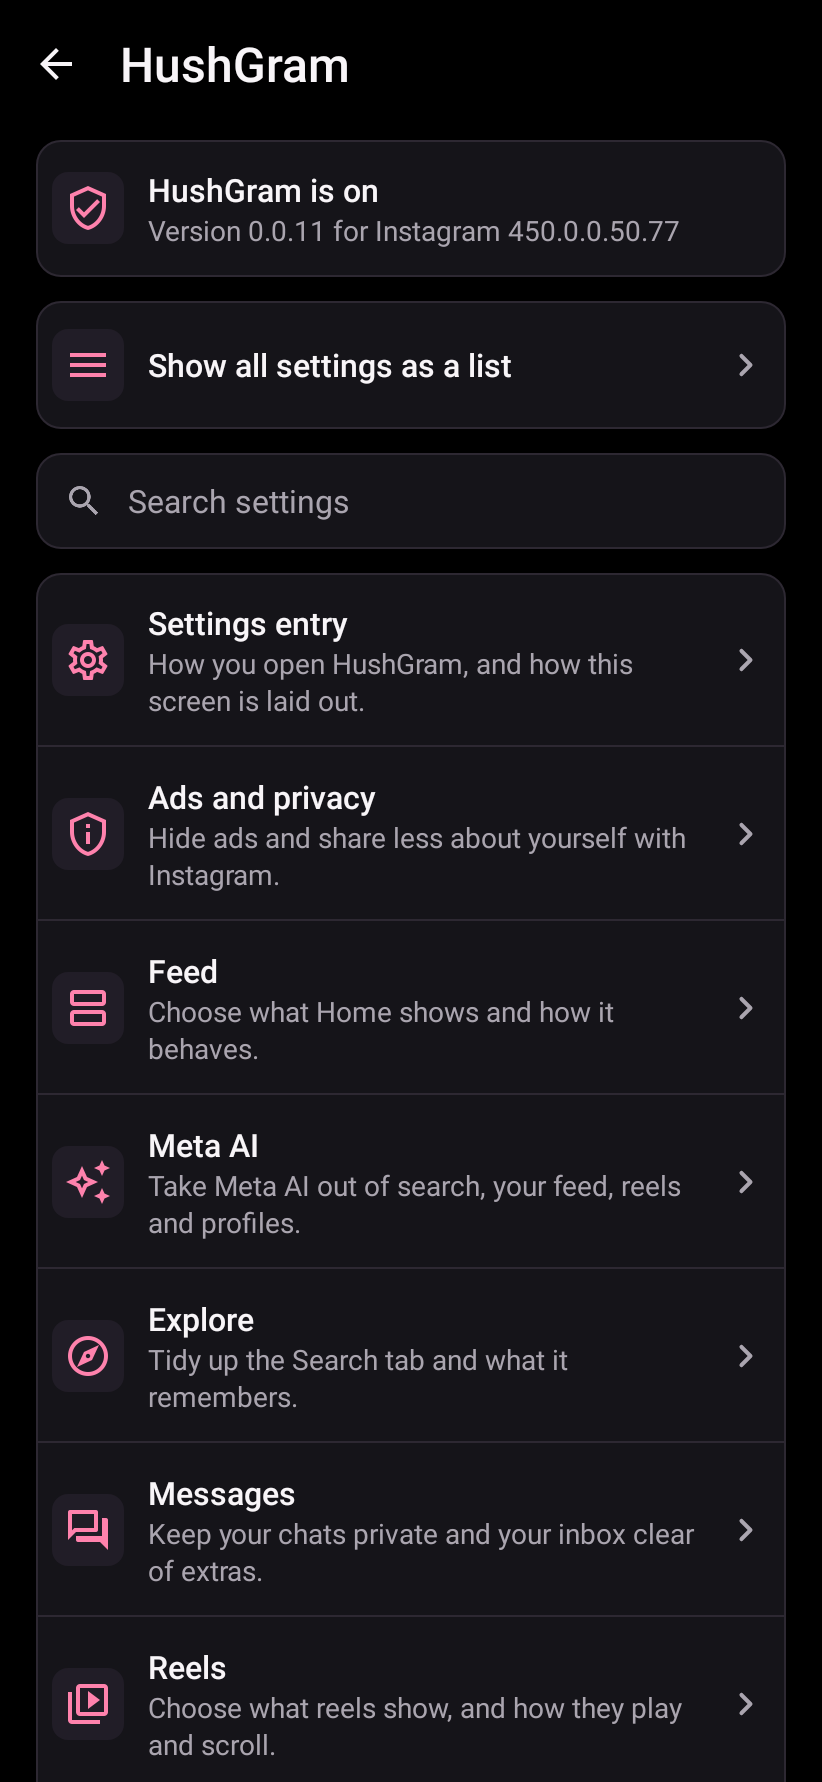
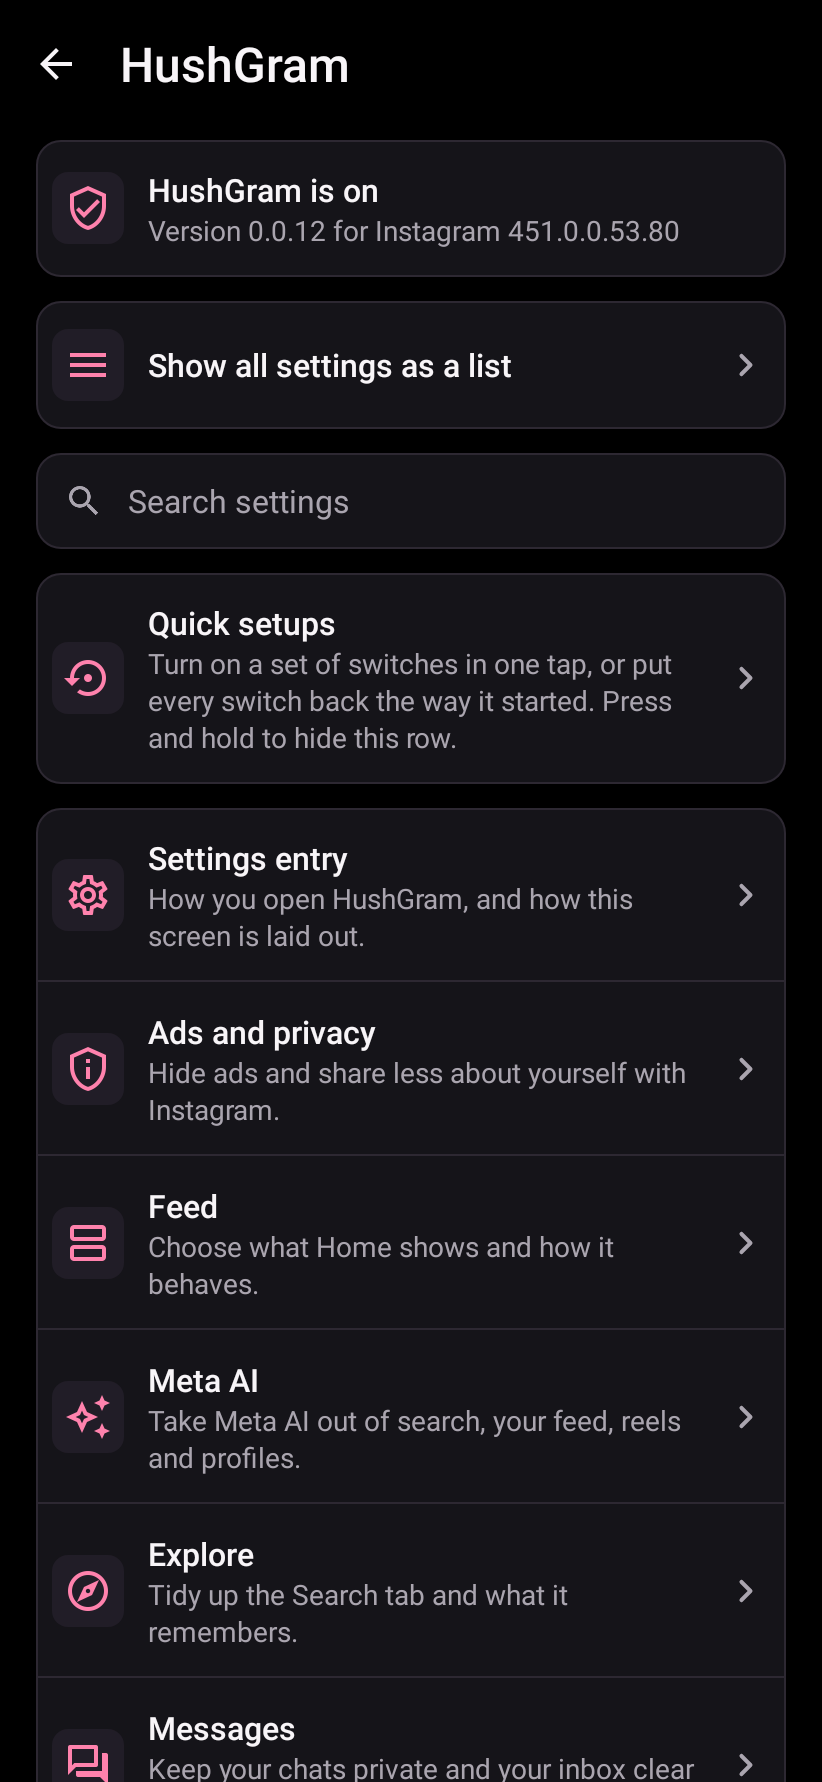
style(ui): refresh settings previews for version 0.0.12 on Instagram 451

diff --git a/extensions/instagram/src/test/java/app/hushgram/extension/instagram/settings/SettingsVisualCaptureTest.java b/extensions/instagram/src/test/java/app/hushgram/extension/instagram/settings/SettingsVisualCaptureTest.java
@@ -85,9 +85,9 @@ public class SettingsVisualCaptureTest {
     /** Deterministic development preview metadata. These fixtures never represent an installed build. */
     @Implements(value = Utils.class, isInAndroidSdk = false)
     public static class CaptureMetadata {
-        @Implementation public static String getPatchesReleaseVersion() { return "0.0.11"; }
-        @Implementation public static String getAppVersionName() { return "450.0.0.50.77"; }
-        @Implementation public static long getAppVersionCode() { return 385611438L; }
+        @Implementation public static String getPatchesReleaseVersion() { return "0.0.12"; }
+        @Implementation public static String getAppVersionName() { return "451.0.0.53.80"; }
+        @Implementation public static long getAppVersionCode() { return 385713073L; }
         @Implementation public static String getSourceBuildIdentity() { return "Development preview"; }
     }
 
